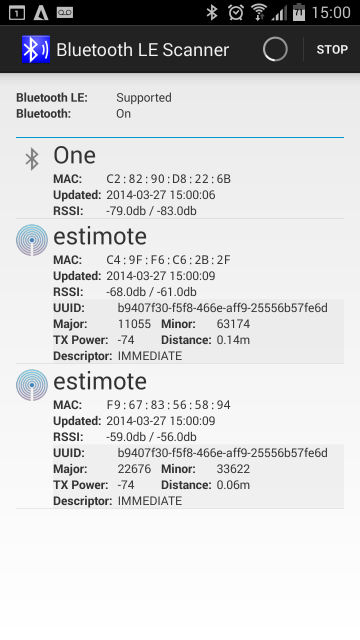
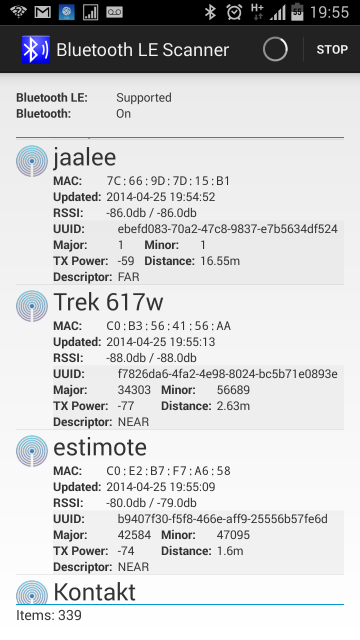
Preparing for releasing app v0.0.3

diff --git a/README.md b/README.md
@@ -118,7 +118,9 @@ You can also lookup values and convert them to human friendly strings:
     * First public release
 * v0.0.2: 
     * Can now export scanned devices as a CSV file. 
-
+* v0.0.3: 
+    * UI Refresh.
+    
 ## Permission Explanation
 You will need the following permissions to access the Bluetooth Hardware
 
@@ -135,6 +137,7 @@ You will need the following permissions to access the Bluetooth Hardware
 ![screenshot1](https://github.com/alt236/Bluetooth-LE-Library---Android/raw/master/screenshots/screenshot_1.png)
 ![screenshot2](https://github.com/alt236/Bluetooth-LE-Library---Android/raw/master/screenshots/screenshot_2.png)
 ![screenshot3](https://github.com/alt236/Bluetooth-LE-Library---Android/raw/master/screenshots/screenshot_3.png)
+![screenshot4](https://github.com/alt236/Bluetooth-LE-Library---Android/raw/master/screenshots/screenshot_4.png)
 
 ## Links
 * Github: [https://github.com/alt236/Bluetooth-LE-Library---Android]()
